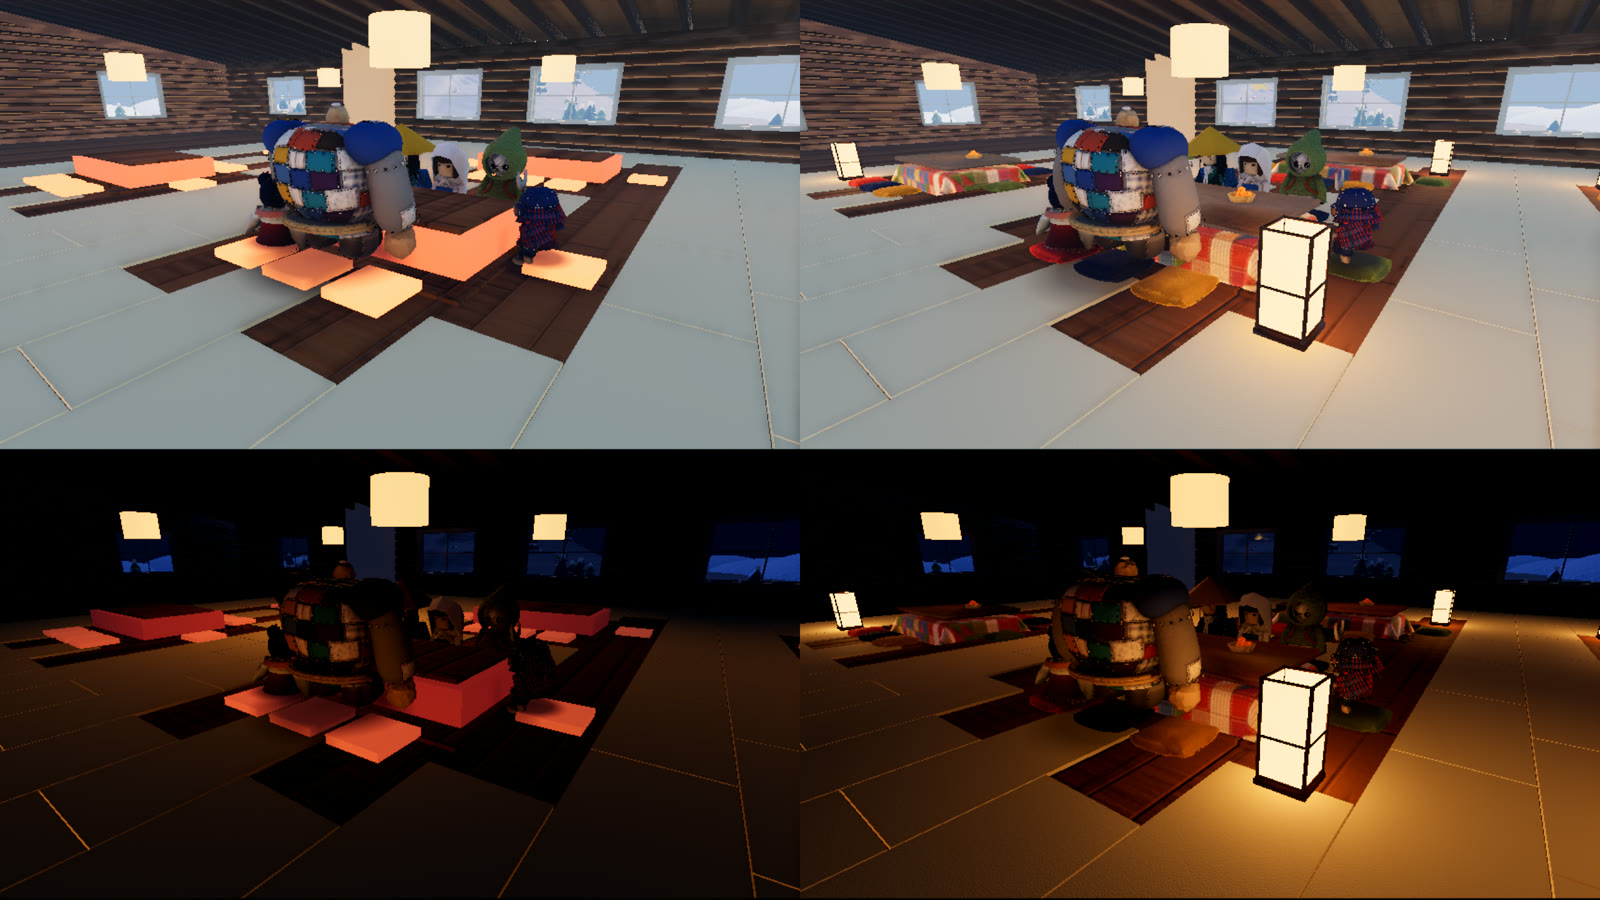
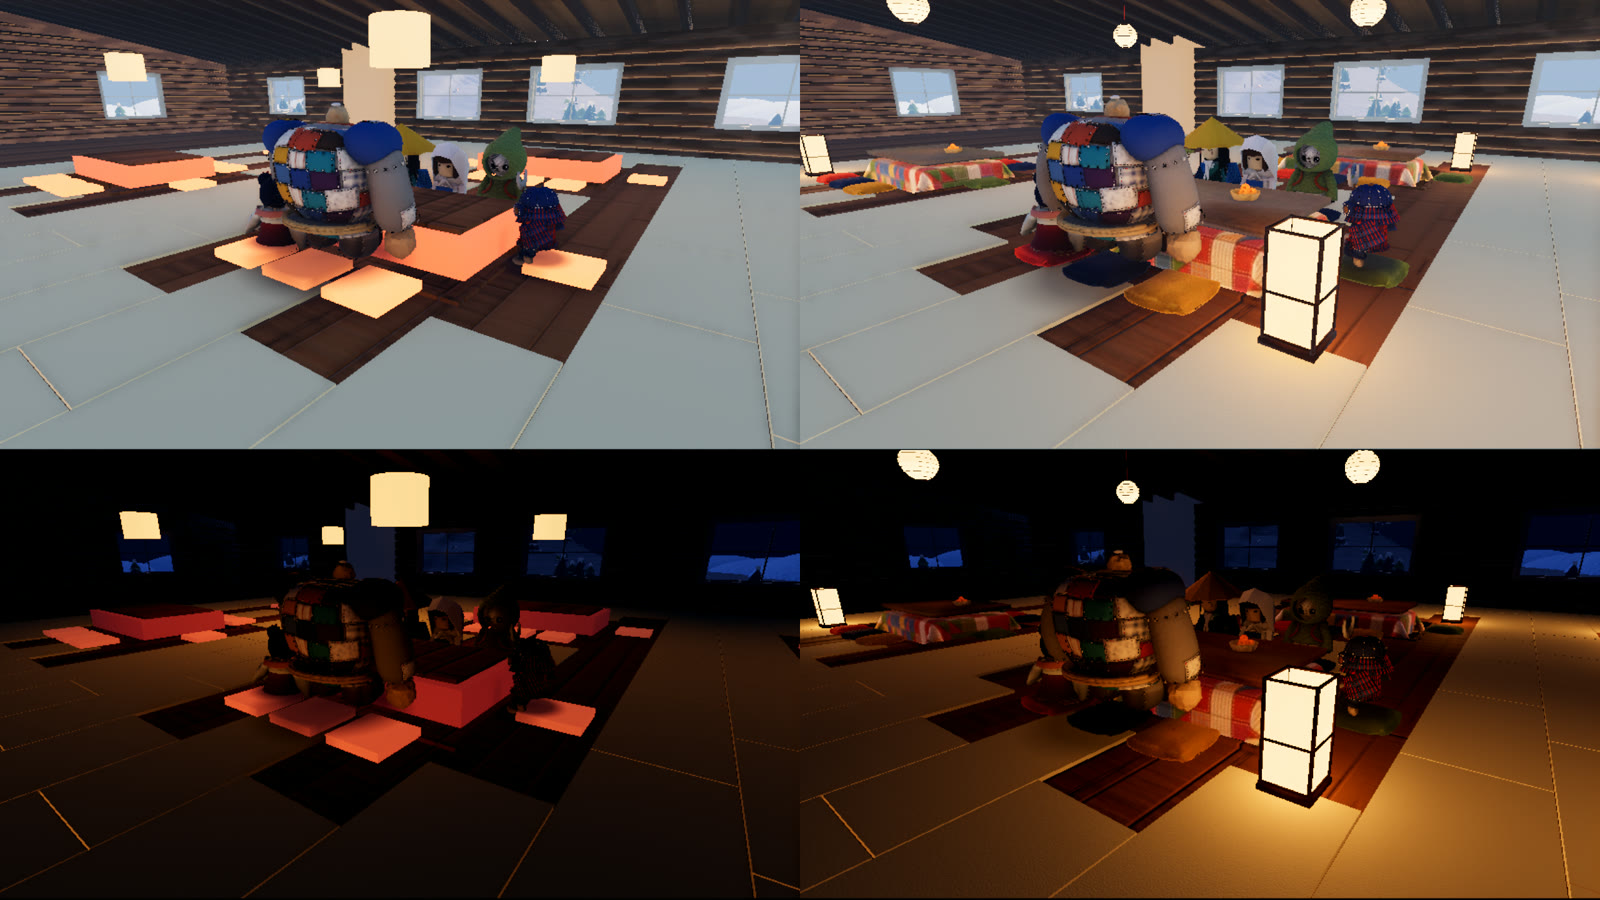
2 階のこたつの上の吊り灯りを天井から吊り、形を提灯に替える（代表「天井からの明かりが低すぎる」「謎の光るボックスなのはもったいない」）
畳の上 1.75 m に浮いていた紙の筒をロッジから外し、天井の目印 slot_pendant_* に props の吊り灯りを提げる。
傘の上端は畳から 3.2 m、コードは天井まで。座敷の灯りの目印も同じ高さへ上げた。形の案（提灯・筒・円錐）の絵を添える

diff --git a/lodge/build_lodge.py b/lodge/build_lodge.py
@@ -1031,17 +1031,19 @@ def build_interior():
     rail_run(ir, (I["xm"], I["hole_y0"], FL2), (I["x1"], I["hole_y0"], FL2), h=RAIL_H,   # 2 本目の上がり口は空ける
              name="bal_stairwell_s")
     ir.done(bevel=0.01)
-    # 1 階の吊り灯り（卓の上）と 2 階の紙の灯り
+    # 1 階の吊り灯り（卓の上）。2 階のこたつの上の灯りは game/main.gd が目印 slot_pendant_<番号>（天井）に吊る
     lp = M("lamps", "paper", "interior")
     for x, y in TABLES:
         for j in (0.25, 0.75):
             cx, cy = x + tw * j, y + td / 2
             lp.cyl((cx, cy, CEIL1 - 0.9), (cx, cy, CEIL1 - 0.55), 0.22, seg=20)
-    for x, ky in KOTATSU:
-        cx = x + KOTATSU_W / 2
-        cy = ky + KOTATSU_D / 2
-        lp.cyl((cx, cy, FL2 + TATAMI["h"] + 1.75), (cx, cy, FL2 + TATAMI["h"] + 2.2), 0.30, seg=24)
     lp.done(bevel=0.03, seg=3, smooth=True)
+    for i, (x, ky) in enumerate(KOTATSU):
+        e = bpy.data.objects.new("slot_pendant_%d" % i, None)
+        e.empty_display_type = "SPHERE"
+        e.empty_display_size = 0.2
+        e.location = (x + KOTATSU_W / 2, ky + KOTATSU_D / 2, roof_z(ky + KOTATSU_D / 2) + RAFTER["h"] - 0.025)   # 野地板の下面
+        coll("markers").objects.link(e)
     cords = M("cords", "metal", "interior")
     for x, y in TABLES:
         for j in (0.25, 0.75):
@@ -1128,7 +1130,7 @@ def build_interior():
     # 灯りは少なく（スマホでも動くように）: 食堂は炉と天井の 3 つの計 4 つ、座敷は 2 つ、風除室に 1 つ。影はなし
     lights = [("light_lamp_%d" % i, (x, y, CEIL1 - 1.0)) for i, (x, y) in enumerate(LAMPS)]
     ky = (KOTATSU[0][1] + KOTATSU[-1][1] + KOTATSU_D) / 2
-    lights += [("light_lantern_%d" % i, ((KOTATSU[a][0] + KOTATSU[a + 1][0] + KOTATSU_W) / 2, ky, FL2 + TATAMI["h"] + 1.95))
+    lights += [("light_lantern_%d" % i, ((KOTATSU[a][0] + KOTATSU[a + 1][0] + KOTATSU_W) / 2, ky, FL2 + TATAMI["h"] + KOTATSU_LAMP - 0.3))
                for i, a in enumerate((0, 2))]
     lights.append(("light_fire", ((CH["x0"] + CH["x1"]) / 2, CH["y0"] - 0.35, FL1 + 0.6)))
     lights.append(("light_vestibule", (VEST["cx"], Y0 - VEST["d"] / 2, VEST["h"] - 1.1)))
@@ -1245,7 +1247,7 @@ def build_light():
         for j in (0.25, 0.75):
             point("lamp_1f", (x + tw * j, y + td / 2, CEIL1 - 0.75), 45 * k, warm, 0.2, shadow=False)
     for x, ky in KOTATSU:
-        point("lantern_2f", (x + KOTATSU_W / 2, ky + KOTATSU_D / 2, FL2 + TATAMI["h"] + 1.95), 70 * k, warm, 0.25)
+        point("lantern_2f", (x + KOTATSU_W / 2, ky + KOTATSU_D / 2, FL2 + TATAMI["h"] + KOTATSU_LAMP - 0.3), 70 * k, warm, 0.25)
     point("kitchen", (gx(3.7), gy(0.8), CEIL1 - 0.4), 120 * k, (1.0, 0.74, 0.48), 0.4)
     point("rental", (gx(0.8), gy(0.9), CEIL1 - 0.4), 60 * k, (1.0, 0.74, 0.48), 0.4)
     point("vestibule", (VEST["cx"], Y0 - VEST["d"] / 2, VEST["h"] - 1.1), 90 * k, warm, 0.3)

diff --git a/lodge/dims.py b/lodge/dims.py
@@ -178,6 +178,8 @@ PIT_DEPTH = 0.40
 KOTATSU_TOP = 0.44                # 天板の上の面（畳から）
 PIT_OUT = 0.42                    # 穴の縁: 卓の縁から四方にこれだけ外（布団は穴の中へ垂れ、脚は布団の手前に下ろす）
 KOTATSU_FLARE = 0.10              # 天板と垂れた布団が卓の縁から外へ出る幅（当たり判定の箱）
+KOTATSU_LAMP = 3.2                # こたつの上の吊り灯りの傘の上端（畳から。2026-11-02 代表「天井からの明かりが低すぎる」）。
+                                  # 灯りの形は game/main.gd が置く（目印 slot_pendant_<番号> は天井の、コードを留める所）
 BENCH2 = (gx(0.3), Y2_0 + LOG_D / 2 + 0.05, gx(2.0), Y2_0 + LOG_D / 2 + 0.50)
 TABLE2 = (gx(0.4), Y2_0 + 2.0, gx(1.6), Y2_0 + 3.1)
 

diff --git a/lodge/README.md b/lodge/README.md
@@ -54,6 +54,7 @@ Blender 5.2 を画面なしで動かす。外の素材は使わない。
 - 原点は 1 階の外形の中心の真下、雪の地面の高さ。正面（南）が -Y（Blender）＝ +Z（Godot）を向く
 - 機械の置き場の目印（空の節点）: `slot_food_kitchen`、`slot_craft_rental`、`slot_vending_1`〜`3`。場所と向きは `dims.py` の `SLOTS`（並びは [design/lodge-layout/](../design/lodge-layout/)）。機械は `game/main.gd` が置く
 - 2 階の掘りごたつの目印（空の節点）: `slot_kotatsu_0`〜`7`（穴のまんなか、畳の面。0〜3 が南の列、4〜7 が北の列、西から）。ロッジは穴だけを作り、こたつと座布団は `game/main.gd` が `props/sets/kotatsu_lodge_<柄>.tscn` を置く（2026-11-01、箱のこたつから差し替え）。大きさは `dims.py` の `KOTATSU_W`・`KOTATSU_D`・`KOTATSU_TOP`・`PIT_OUT`・`PIT_DEPTH`、当たり判定は `KOTATSU_FLARE` まで
+- 2 階のこたつの上の吊り灯りの目印: `slot_pendant_0`〜`7`（卓のまんなかの上、天井の野地板の下面。番号は `slot_kotatsu_*` と同じ）。`game/main.gd` が `props/furniture/pendant_<形>.glb` を、傘の上端が畳から `KOTATSU_LAMP`（3.2 m）になるよう吊り、コードを天井まで伸ばす（2026-11-02、畳の上 1.75 m に浮いていた紙の筒から替えた）。座敷の灯り `light_lantern_*` も同じ高さへ上げた
 - 灯りの場所の目印（空の節点）: `light_lamp_0`〜`2`（食堂の天井）、`light_lantern_0`〜`1`（座敷）、`light_fire`（炉）、`light_vestibule`（風除室）。食堂は炉を入れて 4 つまで。ゲームはここに暖色の OmniLight3D を影なしで灯し、炉の火だけ揺らす
 - 書き出しでは面取りを外し、形を 2 つの物体にまとめる。建物は `lodge_body`、中の家具と小物（卓・椅子・灯り・自販機など）は `lodge_props_interior`（名前の prop で 360° 映像から外せる）。動かす自動ドアだけ別。三角形はロッジ全体で 10 万以下が目安（いま約 6.7 万）
 - 自動ドアの戸は `autodoor_l` / `autodoor_r`（ガラスは `autodoor_glass_l` / `_r`）。`lodge.gd` が、人（CharacterBody3D）が戸の前後 3 m に入ると左右へ 1.4 m 引き分ける
@@ -72,3 +73,4 @@ Blender 5.2 を画面なしで動かす。外の素材は使わない。
 | `05-day-kotatsu.png` | カット 4: 2 階の掘りごたつ |
 | `05-day-terrace.png` | カット 5: テラスから丘 |
 | `06-kotatsu-swap-*.jpg` | 2 階のこたつの差し替え（ゲームの画面。左が前、右が後。上が昼、下が夜）。`-sit-side` は 7 体を座布団に座らせた横から（`06-kotatsu-before-sit-side` が前） |
+| `06-kotatsu-pendant-night.jpg` `06-kotatsu-pendant-close.jpg` | 代表に聞く案: こたつの上の吊り灯りの形（左から提灯・プリーツの筒・円錐）。`-night` は夜の 2 列と近く、`-close` は見上げ（上が昼、下が夜） |
